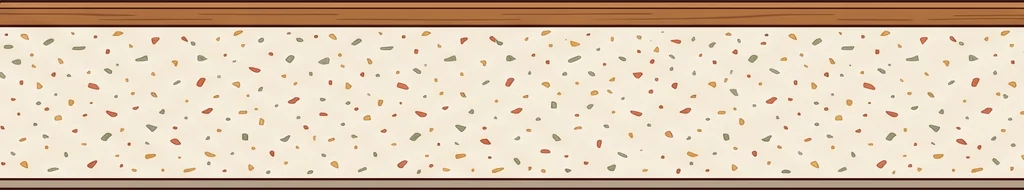
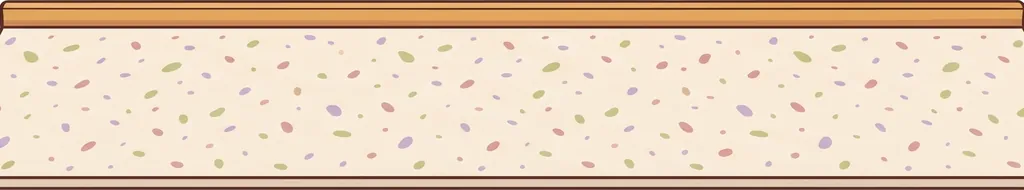
Новый стиль, этап 3: зал кофейни
28 предметов зала (окна, столики, люстры, бра, картины, постеры, полки, растения),
дверь и 4 пола в новом стиле из Nano Banana; пастельные обои; дубовый пол
зала отдельным спрайтом (квартира пока со старым полом).

Claude-Session: https://claude.ai/code/session_01NSnqts5pZGZujReYG19exU

diff --git a/src/ui/hall.tsx b/src/ui/hall.tsx
@@ -76,7 +76,7 @@ export function HallScene({ placed, wall, floor, name, onSlot, active }: { place
         <div class={`layer window-light ${placed[s] === `${s}-2` ? 'stained' : ''}`} style={{ left: `${HALL_ART[s].x}%`, width: `${(HALL_ART[s].wcm ?? 90) * HCMW * 1.6}%`, top: `${FLOOR}%` }} />
       ))}
       <Door name={name} />
-      <img class="layer room-floor" src={art(fl.id === 'hf-oak' || !ART_RATIO[`hall-floor-${fl.id}`] ? 'room-floor-hall' : `hall-floor-${fl.id}`)} style={fl.id === 'hf-oak' || ART_RATIO[`hall-floor-${fl.id}`] ? undefined : { filter: FLOOR_TINT[fl.id] }} alt="" draggable={false} />
+      <img class="layer room-floor" src={art(ART_RATIO[`hall-floor-${fl.id}`] ? `hall-floor-${fl.id}` : 'room-floor-hall')} style={ART_RATIO[`hall-floor-${fl.id}`] || fl.id === 'hf-oak' ? undefined : { filter: FLOOR_TINT[fl.id] }} alt="" draggable={false} />
       <div class="layer baseboard-shade" style={{ top: `${FLOOR - 1.2}%` }} />
       {lit('sconces') && HALL_ART.sconces.twin!.map((x) => <div class="layer sconce-wash" style={{ left: `${x}%`, bottom: `${100 - hAt(140)}%` }} />)}
       {LAYER_ORDER.map((slot) => {
@@ -135,9 +135,9 @@ function Wainscot({ accent }: { accent: string }) {
     <svg class="layer-base" viewBox="0 0 400 300" preserveAspectRatio="none" aria-hidden="true">
       <rect x="0" y={top} width="400" height={fl - top} fill={accent} opacity="0.55" />
       {Array.from({ length: 16 }, (_, i) => (
-        <rect x={i * 25 + 3} y={top + 6} width="19" height={fl - top - 12} rx="1.5" fill="none" stroke="#0000001f" stroke-width="1" />
+        <rect x={i * 25 + 3} y={top + 6} width="19" height={fl - top - 12} rx="1.5" fill="none" stroke="#5b3b2b40" stroke-width="1" />
       ))}
-      <rect x="0" y={top - 2.5} width="400" height="3.5" fill="#00000026" />
+      <rect x="0" y={top - 3} width="400" height="4" fill="#c98f5e" stroke="#5b3b2b" stroke-width="0.8" />
       <rect x="0" y="0" width="400" height="5" fill="#00000014" />
     </svg>
   );

diff --git a/src/core/content.ts b/src/core/content.ts
@@ -807,12 +807,12 @@ const HW = (id: string, ru: string, en: string, tier: 0 | 1 | 2, pattern: WallPa
   id, name: { ru, en }, tier, cost: def ? 0 : [200, 450, 900][tier], joy: 0, sat: def ? 0 : [0.005, 0.01, 0.015][tier], pattern, base, ink, accent, rooms: [], def,
 });
 export const HALL_WALLS: (Wallpaper & HallSurface)[] = [
-  HW('hw-latte', 'Латте', 'Latte', 0, 'plain', '#efe2cc', '#e3d2b5', undefined, true),
-  HW('hw-cream-stripe', 'Кремовая полоска', 'Cream stripes', 0, 'stripes', '#f7ead2', '#ecdab9'),
-  HW('hw-terracotta', 'Терракота', 'Terracotta', 1, 'plain', '#e8c4ae', '#dcb096'),
-  HW('hw-green-panel', 'Зелёные панели', 'Green panels', 1, 'panel', '#f1ead9', '#6f8f74', '#9fb89a'),
-  HW('hw-brick', 'Кирпич', 'Brick', 2, 'brick', '#c98b70', '#e8d6c4'),
-  HW('hw-navy-panel', 'Синие панели', 'Navy panels', 2, 'panel', '#efe6d4', '#3f5a73', '#7f97ad'),
+  HW('hw-latte', 'Латте', 'Latte', 0, 'plain', '#f8e7d0', '#efd9bb', undefined, true),
+  HW('hw-cream-stripe', 'Кремовая полоска', 'Cream stripes', 0, 'stripes', '#fbf1d9', '#f2e1b8'),
+  HW('hw-terracotta', 'Терракота', 'Terracotta', 1, 'plain', '#f6cdb9', '#ecb9a2'),
+  HW('hw-green-panel', 'Зелёные панели', 'Green panels', 1, 'panel', '#fbf1dd', '#93b47c', '#b9d3a1'),
+  HW('hw-brick', 'Кирпич', 'Brick', 2, 'brick', '#e3a58b', '#f6e3d2'),
+  HW('hw-navy-panel', 'Синие панели', 'Navy panels', 2, 'panel', '#f8efe0', '#6f86b8', '#a9bbdf'),
 ];
 export const HALL_FLOORS: HallSurface[] = [
   { id: 'hf-oak', name: { ru: 'Дубовый паркет', en: 'Oak parquet' }, tier: 0, cost: 0, sat: 0, def: true },

diff --git a/supabase/functions/_shared/core/content.ts b/supabase/functions/_shared/core/content.ts
@@ -807,12 +807,12 @@ const HW = (id: string, ru: string, en: string, tier: 0 | 1 | 2, pattern: WallPa
   id, name: { ru, en }, tier, cost: def ? 0 : [200, 450, 900][tier], joy: 0, sat: def ? 0 : [0.005, 0.01, 0.015][tier], pattern, base, ink, accent, rooms: [], def,
 });
 export const HALL_WALLS: (Wallpaper & HallSurface)[] = [
-  HW('hw-latte', 'Латте', 'Latte', 0, 'plain', '#efe2cc', '#e3d2b5', undefined, true),
-  HW('hw-cream-stripe', 'Кремовая полоска', 'Cream stripes', 0, 'stripes', '#f7ead2', '#ecdab9'),
-  HW('hw-terracotta', 'Терракота', 'Terracotta', 1, 'plain', '#e8c4ae', '#dcb096'),
-  HW('hw-green-panel', 'Зелёные панели', 'Green panels', 1, 'panel', '#f1ead9', '#6f8f74', '#9fb89a'),
-  HW('hw-brick', 'Кирпич', 'Brick', 2, 'brick', '#c98b70', '#e8d6c4'),
-  HW('hw-navy-panel', 'Синие панели', 'Navy panels', 2, 'panel', '#efe6d4', '#3f5a73', '#7f97ad'),
+  HW('hw-latte', 'Латте', 'Latte', 0, 'plain', '#f8e7d0', '#efd9bb', undefined, true),
+  HW('hw-cream-stripe', 'Кремовая полоска', 'Cream stripes', 0, 'stripes', '#fbf1d9', '#f2e1b8'),
+  HW('hw-terracotta', 'Терракота', 'Terracotta', 1, 'plain', '#f6cdb9', '#ecb9a2'),
+  HW('hw-green-panel', 'Зелёные панели', 'Green panels', 1, 'panel', '#fbf1dd', '#93b47c', '#b9d3a1'),
+  HW('hw-brick', 'Кирпич', 'Brick', 2, 'brick', '#e3a58b', '#f6e3d2'),
+  HW('hw-navy-panel', 'Синие панели', 'Navy panels', 2, 'panel', '#f8efe0', '#6f86b8', '#a9bbdf'),
 ];
 export const HALL_FLOORS: HallSurface[] = [
   { id: 'hf-oak', name: { ru: 'Дубовый паркет', en: 'Oak parquet' }, tier: 0, cost: 0, sat: 0, def: true },

diff --git a/src/ui/artSizes.ts b/src/ui/artSizes.ts
@@ -9,34 +9,35 @@ export const ART_RATIO: Record<string, number> = {
   "decor-shelf": 1.366,
   "decor-sillplant": 0.732,
   "decor-succulent": 0.785,
-  "hall-door": 0.436,
+  "hall-door": 0.473,
   "hall-floor-hf-herring": 5.389,
+  "hall-floor-hf-oak": 5.389,
   "hall-floor-hf-terrazzo": 5.389,
   "hall-floor-hf-tile": 5.389,
-  "hall-light-0": 0.569,
-  "hall-light-1": 0.829,
-  "hall-light-2": 0.487,
-  "hall-pic-0": 1.37,
-  "hall-pic-1": 1.272,
-  "hall-pic-2": 1.389,
-  "hall-plant-0": 0.553,
-  "hall-plant-1": 0.972,
-  "hall-plant-2": 0.759,
-  "hall-poster-0": 0.759,
-  "hall-poster-1": 0.735,
-  "hall-poster-2": 0.732,
-  "hall-sconce-0": 1.097,
-  "hall-sconce-1": 0.818,
-  "hall-sconce-2": 1.211,
-  "hall-shelf-0": 2.669,
-  "hall-shelf-1": 1.741,
-  "hall-shelf-2": 2.422,
-  "hall-table-0": 1.872,
-  "hall-table-1": 1.917,
-  "hall-table-2": 2.12,
-  "hall-window-0": 0.872,
-  "hall-window-1": 0.815,
-  "hall-window-2": 0.741,
+  "hall-light-0": 0.703,
+  "hall-light-1": 0.742,
+  "hall-light-2": 0.628,
+  "hall-pic-0": 1.308,
+  "hall-pic-1": 1.351,
+  "hall-pic-2": 1.281,
+  "hall-plant-0": 0.505,
+  "hall-plant-1": 0.726,
+  "hall-plant-2": 0.618,
+  "hall-poster-0": 0.734,
+  "hall-poster-1": 0.734,
+  "hall-poster-2": 0.734,
+  "hall-sconce-0": 0.748,
+  "hall-sconce-1": 0.675,
+  "hall-sconce-2": 1.137,
+  "hall-shelf-0": 2.02,
+  "hall-shelf-1": 2.396,
+  "hall-shelf-2": 1.776,
+  "hall-table-0": 1.277,
+  "hall-table-1": 1.59,
+  "hall-table-2": 2.178,
+  "hall-window-0": 0.743,
+  "hall-window-1": 0.819,
+  "hall-window-2": 0.721,
   "home-bed-0": 1.757,
   "home-bed-1": 1.703,
   "home-bed-2": 1.713,
